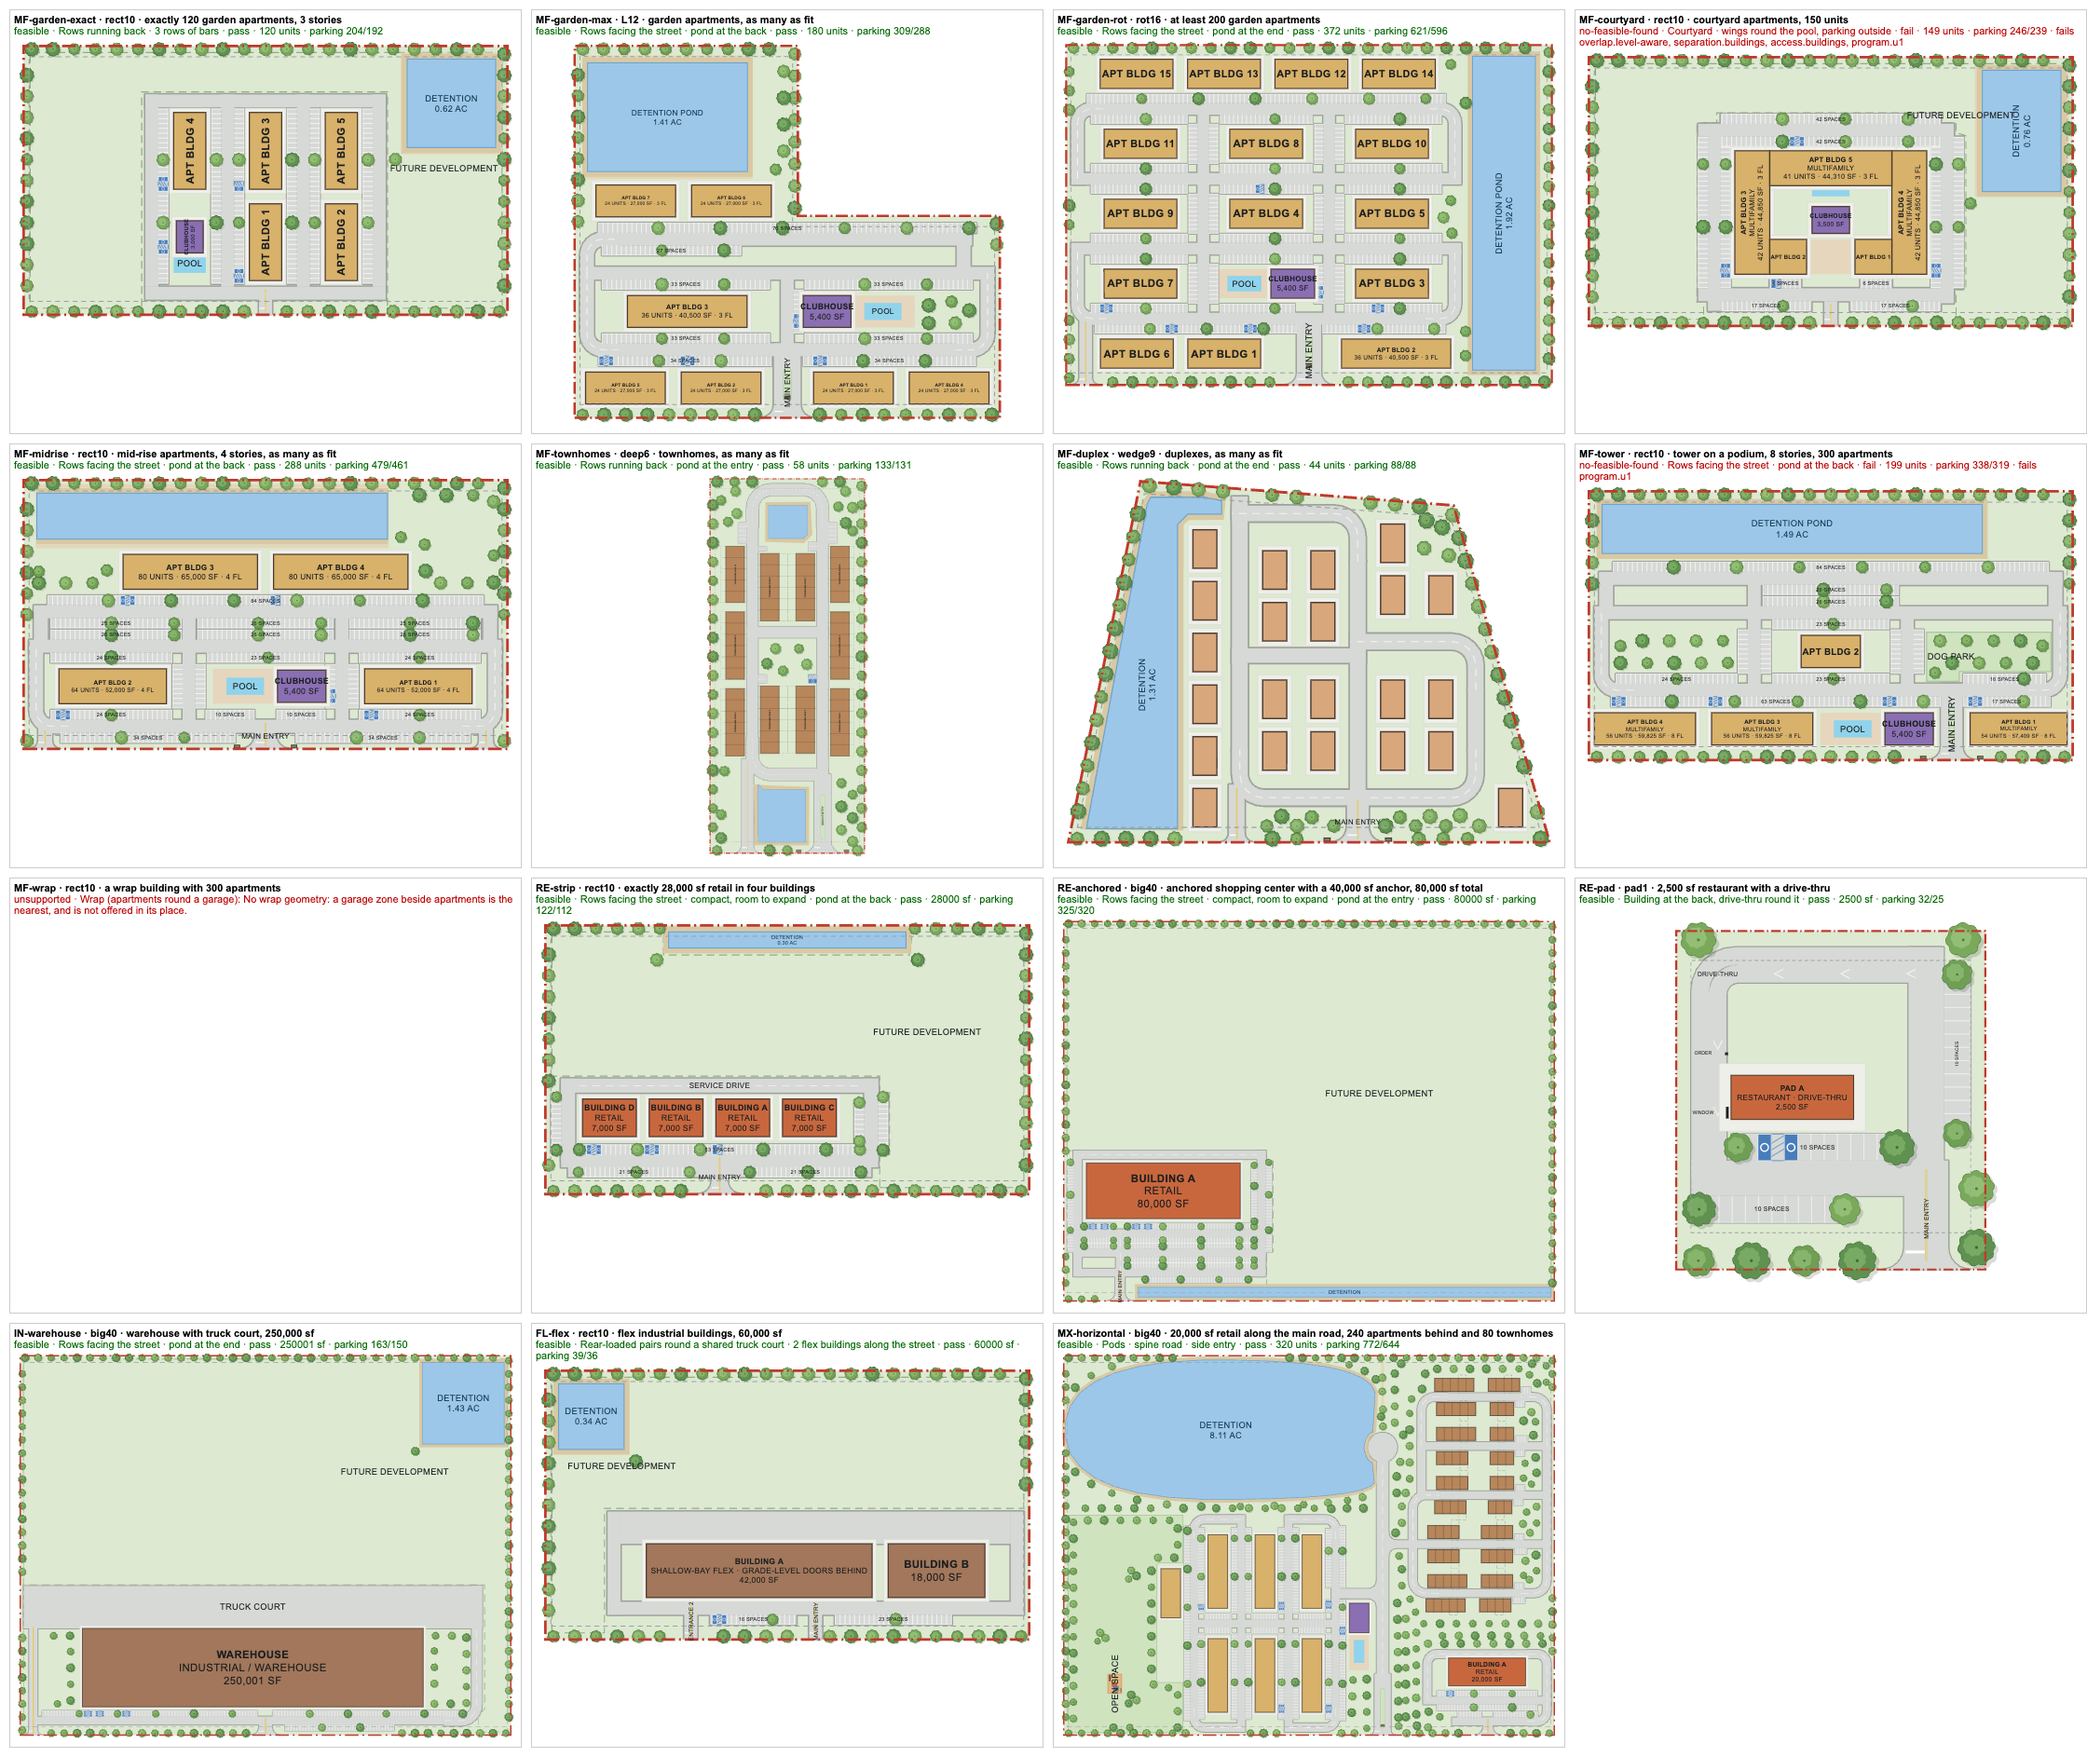
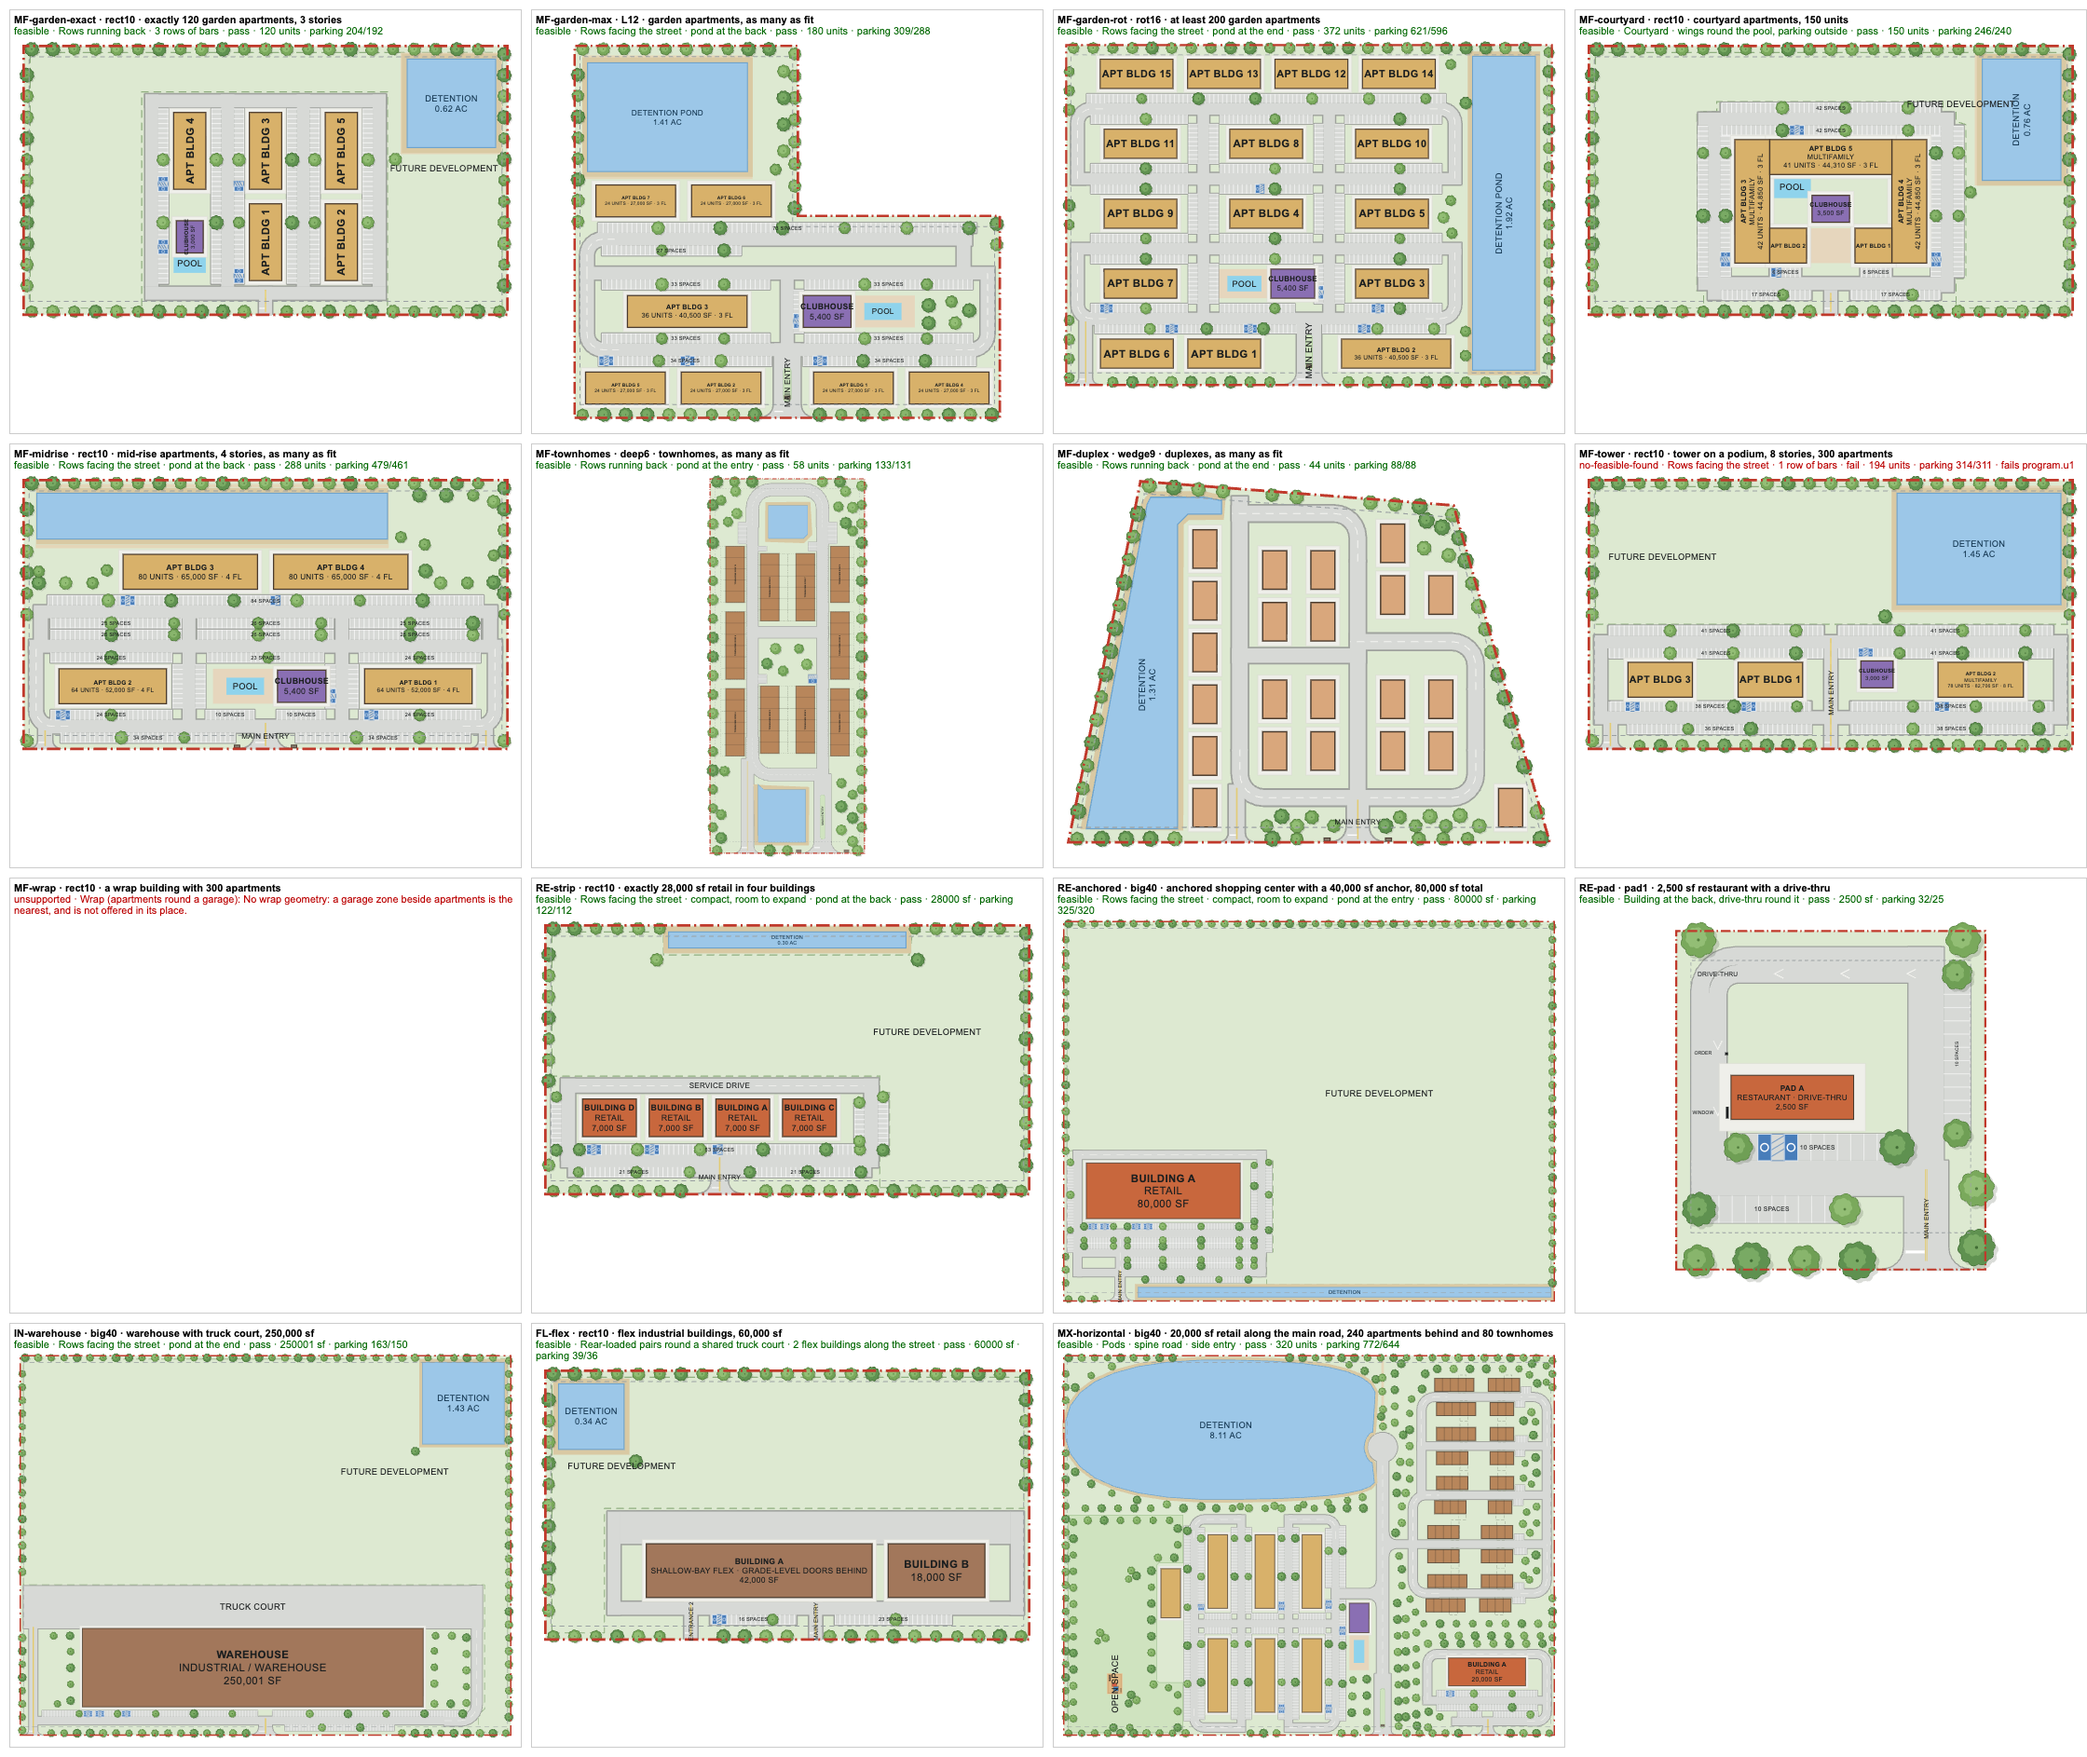
Courtyards as one building, exact counts by unit size, words decide sizes in Build
- joinCourtyard: wings within 15 ft round one court tagged as one building (rectangles kept
  for 3D and plan sets); corner overlaps trimmed; a building in the court reached through it
- nudgeAmenities: pools, courts, play and trash moved off buildings and paving (grid search;
  a pool may shrink to 75% to fit its court)
- exactByUnitSize: untemplated exact counts met by sizing homes 750-1,400 gross sf
- Courtyard requests rank courtyard layouts first among those that pass
- Build: a bare number is exact unless Leftover land was set by the user or the words; a
  chosen layout keeps its run's brief and the Independent check reads it
- Benchmark 13/15 (courtyard now passes)

Claude-Session: https://claude.ai/code/session_01LChLq1saTs9DVWKJTcfgi8

Changed region(s): [[0.75, 0.246, 1.0, 0.4613], [0.75, 0.0, 1.0, 0.1845]]

diff --git a/src/siteplan.js b/src/siteplan.js
@@ -3052,8 +3052,8 @@ export function initSitePlan(ctx) {
   }
   function verifyHTML(pl) {
     let r; try {
-      const brief = LB.canonicalBrief(LB.briefFromProgram(pl.program, pl, { text: '' })), fm = SP.fillMode(pl.params);
-      for (const u of brief.program.uses) if (u.quantity.mode !== 'maximize') u.quantity.mode = fm === 'hold' ? 'exact' : 'min'; // what Leftover land says the size means
+      const brief = LB.canonicalBrief(pl.run?.brief ? { ...pl.run.brief, site: LB.siteFromPlan(pl), locks: [], locked: {} } : LB.briefFromProgram(pl.program, pl, { text: '' })), fm = SP.fillMode(pl.params);
+      if (!pl.run?.brief) for (const u of brief.program.uses) if (u.quantity.mode !== 'maximize') u.quantity.mode = fm === 'hold' ? 'exact' : 'min'; // (a plan without a run: what Leftover land says the size means)
       r = LV.validateLayout(pl, brief);
     } catch (e) { return '<div class="rnote">The check couldn’t run on this plan: ' + esc(e.message) + '</div>'; }
     const icon = { pass: '✓', fail: '✕', unknown: '?', 'n/a': '–' }, val = v => v == null ? '' : Array.isArray(v) ? v.join('–') : typeof v === 'object' ? Object.entries(v).map(([k, x]) => k + ' ' + x).join(', ') : typeof v === 'number' ? f0(v) : String(v);
@@ -4133,7 +4133,7 @@ export function initSitePlan(ctx) {
     let v = ed.variants?.[i]; if (!v || Array.isArray(v.elements) && !v.elements.length) return false;
     const was = v.stale; if (!v.elements || was) { v = await relay(i, was); if (!v) return false; i = ed.variants.indexOf(v); } // out of date, or numbers only: laid out again for this site first
     applying = true;
-    try { change(x => { x.elements = withKeepouts(v.elements, x.elements); x.spareRows = []; x.program = SP.keepNames({ ...(v.program || x.program) }, x.program, !o.fresh); /* (the names as they are now: the layout's copy is from when it was laid out; a build's own new layouts carry its names) */ x.setbacks = v.setbacks || x.setbacks; if (v.params) x.params = clone(v.params); x.zones = clone(v.zones || []); x.recipe = v.recipe ? clone(v.recipe) : null; x.variant = { key: v.key, name: v.name, at: new Date().toISOString() }; if (v.laidAs || x.laidAs) x.laidAs = v.laidAs || null; }); }
+    try { change(x => { x.elements = withKeepouts(v.elements, x.elements); x.spareRows = []; if (v.run?.brief) x.run = { inputHash: v.run.inputHash, seed: v.run.seed, versions: v.run.versions, brief: v.run.brief }; else delete x.run; /* (the run it came from: the Independent check reads what each size meant) */ x.program = SP.keepNames({ ...(v.program || x.program) }, x.program, !o.fresh); /* (the names as they are now: the layout's copy is from when it was laid out; a build's own new layouts carry its names) */ x.setbacks = v.setbacks || x.setbacks; if (v.params) x.params = clone(v.params); x.zones = clone(v.zones || []); x.recipe = v.recipe ? clone(v.recipe) : null; x.variant = { key: v.key, name: v.name, at: new Date().toISOString() }; if (v.laidAs || x.laidAs) x.laidAs = v.laidAs || null; }); }
     finally { applying = false; }
     ed.sel = null; ed.solveBar = false; if (was) PL().stale = null; saveRun(); if (!o.quiet) { draw(); panel(); }
     nameNew(PL()); // (street names on: a new layout's streets named too, in the same undo step)

diff --git a/docs/LAYOUT-ENGINE.md b/docs/LAYOUT-ENGINE.md
@@ -160,6 +160,16 @@ selection; placement edits only reorder zones of a mixed plan.
 - Not yet: "More layouts" and scenario layouts still call the engine directly; the AI program step doesn't emit quantity
   modes; exports and the pro forma read the plan as before.
 
+## 8b. Layout repair passes in the run (Nov 3, later)
+
+Each runs after the engine and is kept only when no hard check gets worse (`keepIfNoWorse`):
+joinCourtyard (wings within 15 ft round one court tagged as one building, corner overlaps trimmed) → nudgeAmenities
+(pools / courts / play / trash off buildings and paving; a pool may shrink to 75%) → exactByUnitSize (untemplated exact
+counts: homes 750–1,400 gross sf) → templates → trimHomes → fitParking → tidyPonds (corners under 35° cut, ≥ 90% of area)
+→ pruneSurplus (unused parking rows and dead-end drives) → addSecondAccess (pond set aside and cut back; a third way in
+for fire-code spacing) → tidyPonds again. Exact counts ask the engine for the count first and retry with more only when
+short. A bare number in Build is exact unless Leftover land was set by the user or the words.
+
 ## 9. Next tasks (in order)
 
 1. Done for Build (Nov 3). Still: "More layouts", scenarios and the MCP `site_plan` tool through `runPlan`; the
@@ -169,5 +179,7 @@ selection; placement edits only reorder zones of a mixed plan.
 4. Courtyard: a continuous courtyard building form (no corner overlaps), then mark it validated if the benchmark passes.
 5. Reconstruct a holdout family (Sierra Vista 64-plex site) as an evaluation case on its real parcel.
 6. Wrap, tuck-under, cross-dock and vertical mixed use, each with its own geometry and tests.
+6b. Podium parking: the tower-on-podium form plans surface parking for every unit (199 of 300 on 10 ac); its podium
+   levels should hold structured parking.
 7. Turning movements with a declared design vehicle; detention from topography (needs engineering inputs).
-8. Main entry off-centre when two remote ways in are needed (on a 900 ft frontage a centred entry can't be 515 ft from another); the pond kept off the street frontage (Hockley's pond wedge took the corner a second entry needed); mirrored options with the same numbers.
+8. (Partly done: a third way in at the far end.) Main entry off-centre when two remote ways in are needed (on a 900 ft frontage a centred entry can't be 515 ft from another); the pond kept off the street frontage (Hockley's pond wedge took the corner a second entry needed); mirrored options with the same numbers.

diff --git a/CHANGELOG.md b/CHANGELOG.md
@@ -5,6 +5,14 @@ Nightly "Refresh data" commits from the data workflow are left out (they only up
 
 ## 2026-11-03
 
+### 7:09 PM CT: Cleaner layouts: exact counts without empty bays, ponds without spikes, a second way in found, courtyards as one building (this push)
+- **A number you give is exactly that, unless you've set Leftover land yourself.** "200 courtyard apartments" builds 200 and leaves the rest as future development; "as many as fit" still fills the site; choosing Fill under Settings › Leftover land still fills it.
+- **No empty paved blocks after an exact count:** the layout is drawn for the count first (exactly 120 garden apartments: 204 spaces for 192 needed, was 284; about a quarter less paving), and parking rows nothing uses are taken out.
+- **A second way in is found** where the fire code asks for one, cutting the pond back if it took the only free stretch of street (Hockley: every option now has two), and a third at the far end when two are too close together.
+- **Ponds without spikes:** a pond's thin wedge into a corner is trimmed (it showed as a grey triangle along FM 2920), and a walking trail split round a new entrance no longer draws a tan wedge across the site.
+- **Courtyard buildings** are one building: wings that meet or stand a breezeway apart round one court; shared corners counted once; the clubhouse in the court is reached through it; a pool that ran into a wing moves (or gets a little smaller) to fit the court. Courtyard requests show courtyard layouts first among the ones that pass.
+- **Options differ:** layouts with the same numbers as one already shown, or far below the best, are left out; capped requests ("up to 150") aim for the cap (144, was 24).
+
 ### 6:16 PM CT: The independent check asks for a second way in, and shows detention against the rule of thumb (this push)
 - **A second way in where the fire code asks for one** (over 200 apartments or 30 homes, IFC Appendix D where adopted): a plan without one fails the check; how far apart the two are (at least half the site's diagonal) is shown as its own line. Plans that will need two now plan for them from the start.
 - **Detention is measured:** the pond against the rule-of-thumb area for the site (Hockley: about 70%), saying what the rest needs; still never shown as passing, since it isn't a drainage design.

diff --git a/docs/DECISIONS.md b/docs/DECISIONS.md
@@ -180,3 +180,12 @@ One line per decision: what was chosen and why. Newest at the bottom of each pha
 - **Two zones of the same use with no placement get a front-to-back order** in the run layer (stated in the run's notes). The band engine can't lay out two apartment zones (18 units on 29 ac); fixing the band engine itself is left for later.
 - **Studio buildings are an estimate**: the reviewed garden stack with six homes a floor instead of four. No studio-only building was reviewed in the library.
 - **A word "studio" makes studio homes only with apartment wording or the plural**, never for a yoga, dance, recording, art, fitness, photo or tattoo studio.
+
+## Layout repair passes; what a bare number means in Build (2026-11-03, later)
+
+- **A bare number in Build is exact** unless Leftover land was chosen in Settings (fillBy 'you') or the words asked to hold land (fillBy 'ask'). The earlier "fill the site" default turned a stated count into fill-the-site, which the layout-engine brief rules out; "as many as fit" still fills.
+- **Repairs live in the run layer, not the engine**, each kept only when no hard check gets worse; the engine's own behaviour is unchanged outside a run.
+- **Courtyard wings stay rectangles** tagged with one court id: a joined outline lost the 3D facades and confused the plan sets (one big building, one unit).
+- **Unit counts on buildings without a template** (courtyard, tower) are floor-area estimates, so an exact count may be met by sizing homes between 750 and 1,400 gross sf; templated buildings never change their schedule.
+- **A pool may shrink to 75%** to fit its court rather than overlap a wing; the note says so.
+- **Fire-code spacing between ways in is a warning, not a hard check**: fire officials commonly accept an emergency-only access; the count of ways in (two past 200 apartments or 30 homes) is hard.

diff --git a/docs/bench/layout-bench-v2.md b/docs/bench/layout-bench-v2.md
@@ -3,11 +3,11 @@
 | MF-garden-exact | multifamily | feasible | pass · 120 units · parking 204/192 | — | 4 | identical | n/a |
 | MF-garden-max | multifamily | feasible | pass · 180 units · parking 309/288 | — | 4 | identical | n/a |
 | MF-garden-rot | multifamily | feasible | pass · 372 units · parking 621/596 | — | 4 | identical | n/a |
-| MF-courtyard | multifamily | no-feasible-found | fail · 149 units · parking 246/239 | overlap.level-aware, separation.buildings, access.buildings, program.u1 | 4 | identical | n/a |
+| MF-courtyard | multifamily | feasible | pass · 150 units · parking 246/240 | — | 4 | identical | n/a |
 | MF-midrise | multifamily | feasible | pass · 288 units · parking 479/461 | — | 4 | identical | n/a |
 | MF-townhomes | multifamily | feasible | pass · 58 units · parking 133/131 | — | 4 | identical | n/a |
 | MF-duplex | multifamily | feasible | pass · 44 units · parking 88/88 | — | 4 | identical | n/a |
-| MF-tower | multifamily | no-feasible-found | fail · 199 units · parking 338/319 | program.u1 | 4 | identical | n/a |
+| MF-tower | multifamily | no-feasible-found | fail · 194 units · parking 314/311 | program.u1 | 4 | identical | n/a |
 | MF-wrap | multifamily | unsupported | Wrap (apartments round a garage): No wrap geometry: a garage zone besi | — | — | identical | n/a |
 | RE-strip | retail | feasible | pass · 28,000 sf · parking 122/112 | — | 4 | identical | n/a |
 | RE-anchored | retail | feasible | pass · 80,000 sf · parking 325/320 | — | 4 | identical | n/a |
